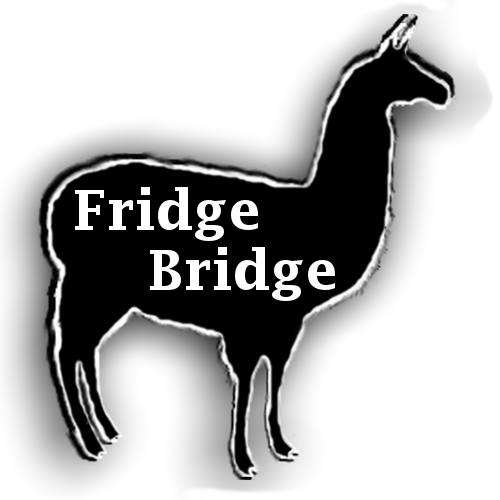
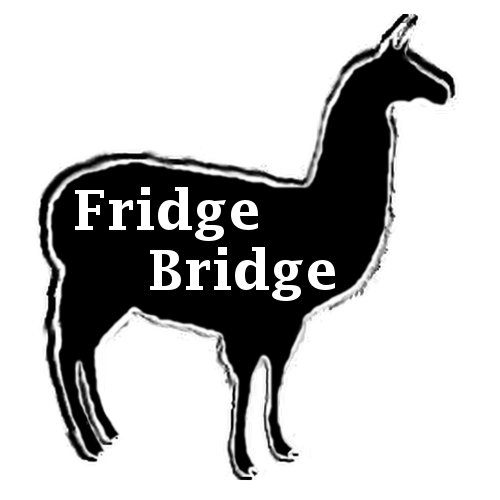
removed Welcome Llama shadow, added descriptive text to welcom page

Changed region(s): [[0.0, 0.0, 0.99, 0.99]]

diff --git a/resources/views/welcome.blade.php b/resources/views/welcome.blade.php
@@ -7,13 +7,13 @@
                 <div class="panel-heading">Welcome to Fridge Bridge</div>
 
                 <div class="panel-body">
-                    <p>
-                        <img alt="WElcome Llama" src="/img/WelcomeLlama.png">
-                    </p>
-                    <p align="top-right">
-                        Welcome to Fridge Bridge.<br>
-                        The app that tracks your fridge!
-                    </p>
+                        <img alt="Welcome Llama" src="/img/WelcomeLlama.png">
+                        <p align="top">
+                            Welcome to Fridge Bridge.<br>
+                            The app that tracks your fridge!<br><br>
+                            Fridge Bridge keeps an inventory of items in your refridgerator<br> and gives you recipe suggestions based on the items you have.<br><br>
+                            You can <b>add</b> items into your inventory and view your <b>list</b> at any time.<br>
+                        </p>
                 </div>
             </div>
         </div>
